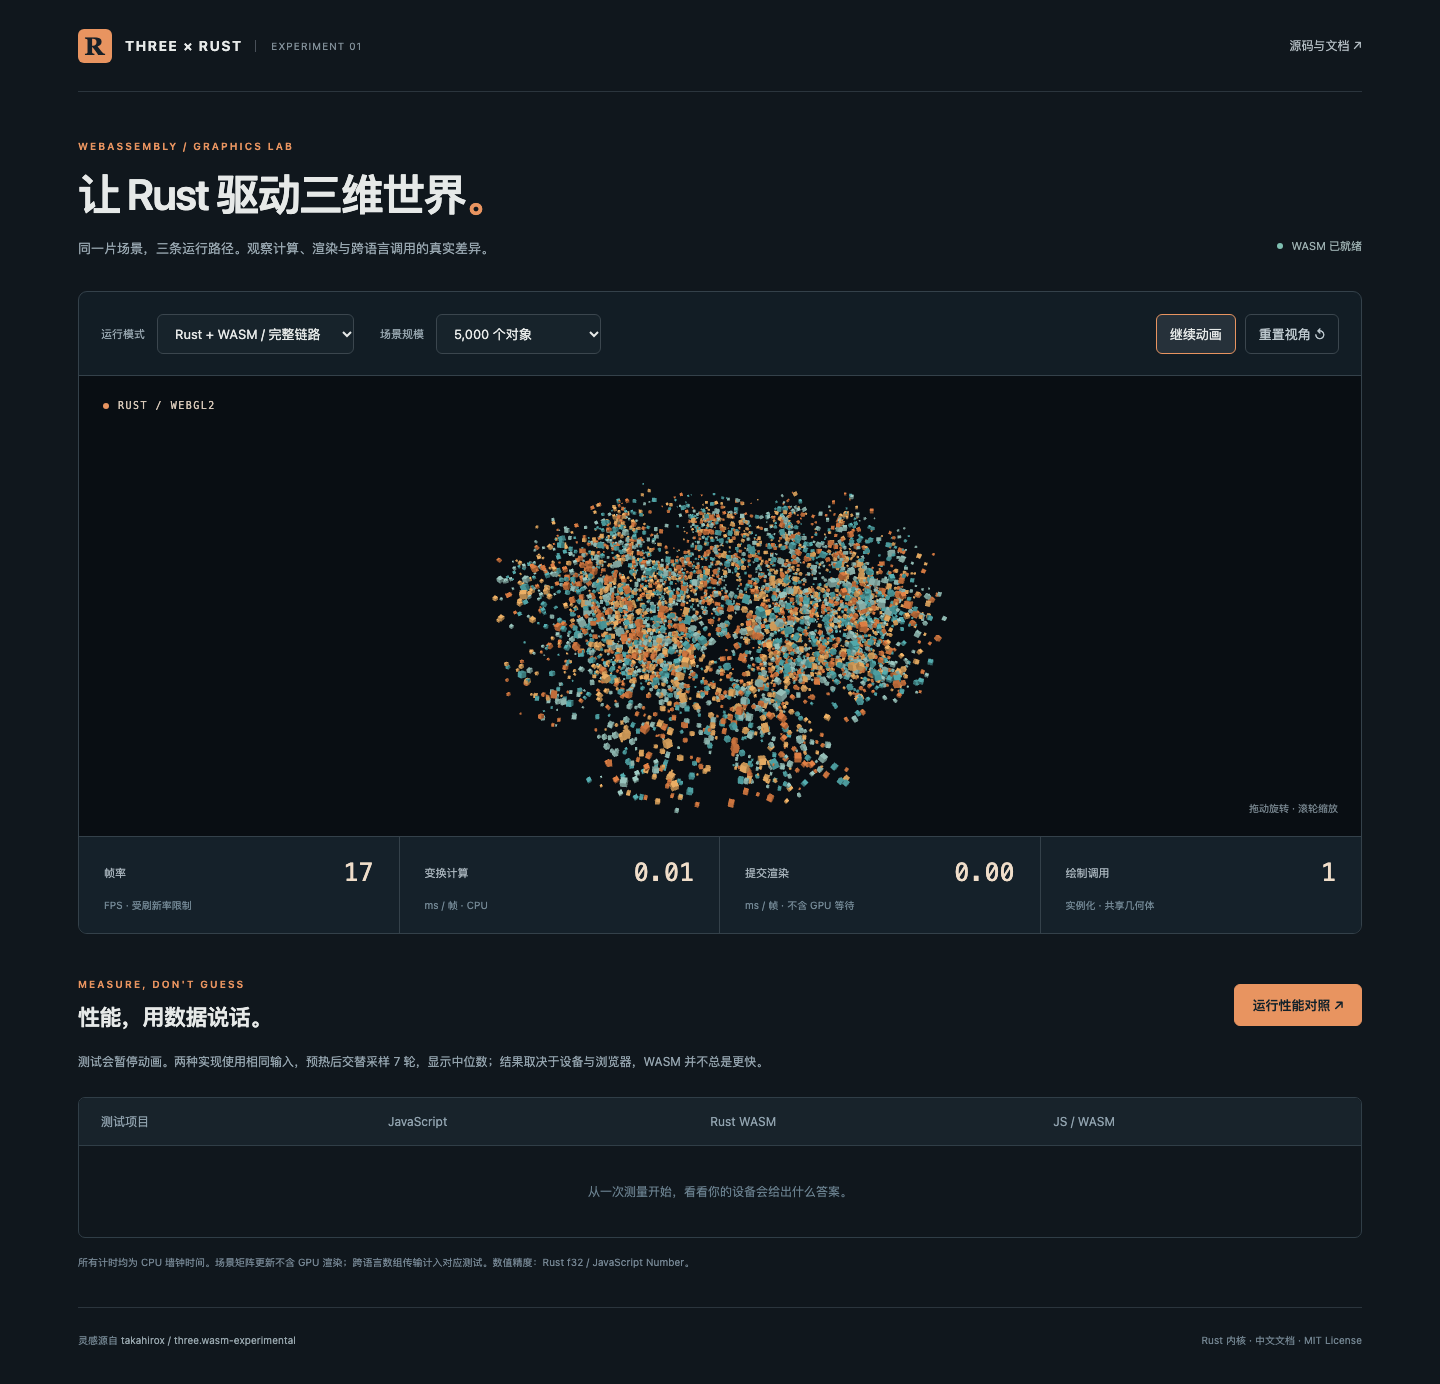
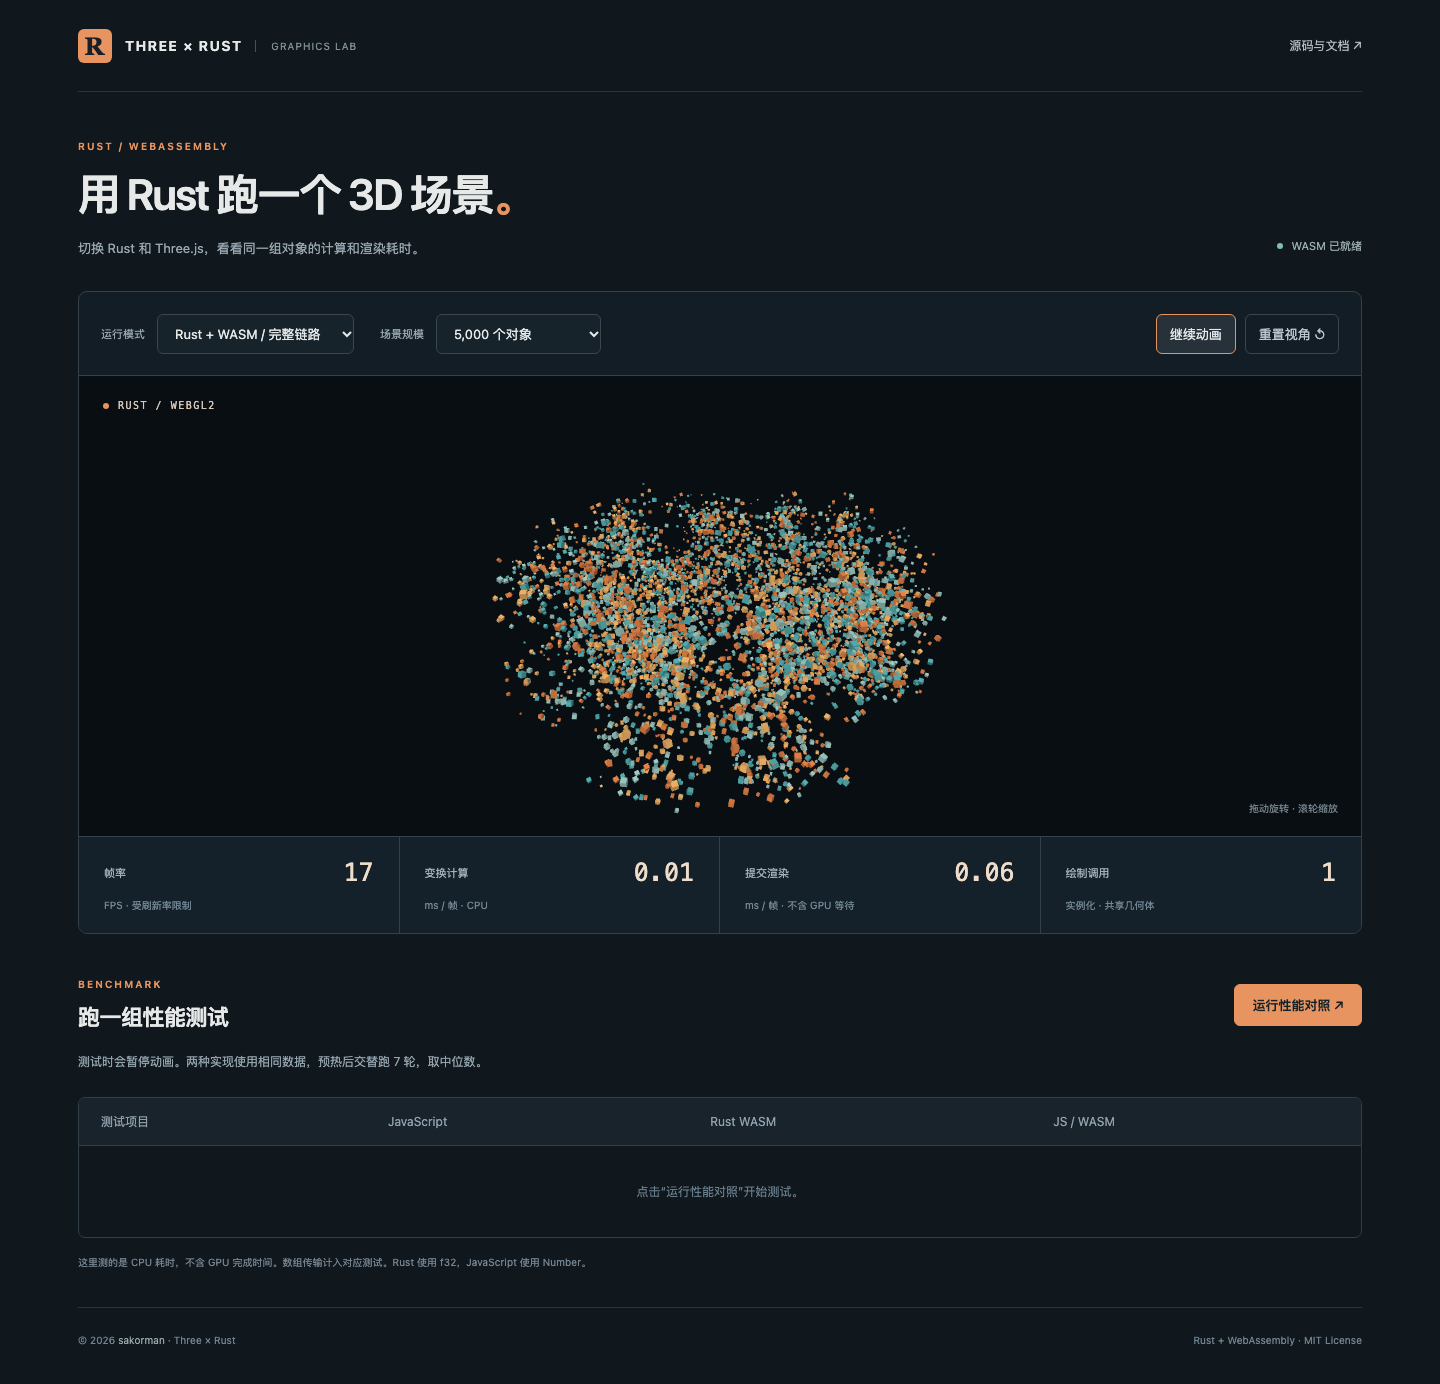
docs: refresh preview

diff --git a/CHANGELOG.md b/CHANGELOG.md
@@ -1,0 +1,14 @@
+# 更新记录
+
+## 2026-10-10 · 文档
+
+- 补充场景数据布局、矩阵更新和内存管理的实现笔记。
+- 整理 README，更新页面文案和截图。
+
+## 2026-10-10 · 0.1.0
+
+- Rust 矩阵计算、场景图和 WebGL2 实例化渲染。
+- Rust、Three.js 和混合模式演示。
+- 五项基准测试，支持导出 JSON。
+- 7 项 Rust 测试、8 项 WASM 差分测试、5 项浏览器测试。
+- GitHub Actions CI 和手动 Pages 部署。

diff --git a/README.md b/README.md
@@ -324,6 +324,7 @@ dist/                   静态构建产物（忽略）
 
 - [实现笔记](docs/design.md)
 - [测试记录](docs/verification.md)
+- [更新记录](CHANGELOG.md)
 - [wasm-bindgen 文档](https://wasm-bindgen.github.io/wasm-bindgen/)
 - [wasm-pack 构建说明](https://drager.github.io/wasm-pack/book/commands/build.html)
 - [Three.js 文档](https://threejs.org/docs/)
